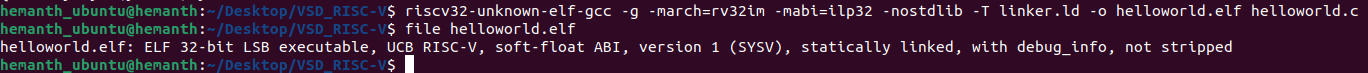
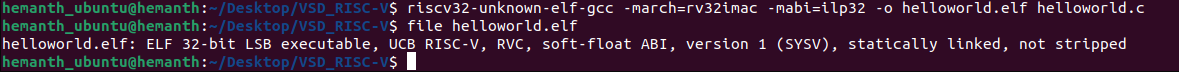
Updated ReadMe

diff --git a/Week 1/README_Week1.md b/Week 1/README_Week1.md
@@ -64,111 +64,20 @@ Compile a simple "Hello, RISC-V" program using the cross-compiler.
 gedit helloworld.c
 ```
 ```c
-volatile int *UART0 = (int *)0x10000000;
+#include <stdio.h>
 
-void _start() {
-
-    const char *msg = "Hello World";
-
-    while (*msg) {
-
-        *UART0 = *msg++;
-
-    }
-
-    while (1); // Halt
-
+int main() {
+    printf("Hello, World!\n");
+    return 0;
 }
 
 ```
 Save and close the .c file.
-### Why this .c file and not a general .c file with printf() statements?
-- This is a bare metal code that directly writes characters to the memory-mapped UART (at address 0x10000000)
-- Uses _start() as the entry point, not main()
-- Does not use any standard C libraries
-- Runs on hardware (or emulated hardware like QEMU) without an operating system
-- However printf version: Needs a richer runtime, not suitable for truly bare-metal
-
-
-
 ![Create](<./Output Screenshots/Creating Helloworld.c.png>)
-
-### Creating a linker script with .ld file type
-
-```bash
-ENTRY(_start)
-
-MEMORY
-
-{
-  // This separates ROM (code/rodata) from RAM (data/bss), and avoids placing them all in one RWX segment.
-  ROM (rx)  : ORIGIN = 0x80000000, LENGTH = 512K
-
-  RAM (rwx) : ORIGIN = 0x80080000, LENGTH = 512K
-
-} 
-SECTIONS
-
-{
-
-  .text : {
-
-    *(.text)
-
-    *(.text*)
-
-  } > ROM
-
-  .rodata : {
-
-    *(.rodata)
-
-    *(.rodata*)
-
-  } > ROM
-
-  .data : {
-
-    *(.data)
-
-    *(.data*)
-
-  } > RAM AT > ROM
-
-  .bss : {
-
-    *(.bss)
-
-    *(.bss*)
-
-    *(COMMON)
-
-  } > RAM
-
-  /DISCARD/ : {
-
-    *(.comment)
-
-    *(.note*)
-
-  }
-
-}
-```
-A linker script (.ld file) is a plain-text configuration file used by the linker (ld) to control how your program's code and data are laid out in memory.
-
-Why Do We Need It?
-In embedded systems (like RISC-V development), we don't have an operating system to manage memory. So we must tell the linker:
-- Where the code (like _start, main) should go
-- Where to place data, bss, and stack
-- How to organize segments in Flash (ROM) and RAM
-Without this, the program won't know where to load and run from.
-
-
 
 ## Compilation Command
 ```bash
-riscv32-unknown-elf-gcc -march=rv32imc -mabi=ilp32 -nostartfiles -nostdlib -g -O0 -T linker.ld helloworld.c -o helloworld.elf
+riscv32-unknown-elf-gcc -march=rv32imac -mabi=ilp32 -o helloworld.elf helloworld.c
 ```
 
 ### Explanation of Flags
@@ -177,11 +86,6 @@ riscv32-unknown-elf-gcc -march=rv32imc -mabi=ilp32 -nostartfiles -nostdlib -g -O
 | `riscv32-unknown-elf-gcc` | RISC-V GCC compiler for 32-bit bare-metal targets (no OS)     |
 | `-march=rv32imc`          | Target **RISC-V 32-bit** architecture with **IMC extensions** |
 | `-mabi=ilp32`             | Use **ILP32** ABI (int, long, pointer = 32 bits)              |
-| `-nostartfiles`           | Do **not link** standard startup files (like `crt0.o`)        |
-| `-nostdlib`               | Do **not link** standard libraries (`libc`, `libm`, etc.)     |
-| `-g`                      | Include **debug symbols** for GDB debugging                   |
-| `-O0`                     | Disable optimizations (**easier debugging**)                  |
-| `-T linker.ld`            | Use custom **linker script** for memory layout                |
 | `helloworld.c`            | Your **C source file**                                        |
 | `-o helloworld.elf`       | Name of the output **ELF executable**                         |
 
@@ -195,7 +99,7 @@ The output confirms:
 - It’s for the RISC-V architecture
 - Uses the compressed instructions (RVC)
 - Uses soft-float ABI(Application Binary Interface) (floating point handled in software)
-- It’s statically linked with debug info
+- It’s statically linked
 
 ![Compile Output](<./Output Screenshots/Compiling Helloworld.c.png>)
 
@@ -207,7 +111,7 @@ Generate the RISC-V assembly (`.s`) file from the C source and understand the pr
 
 ## Command Used
 ```bash
-riscv32-unknown-elf-gcc -march=rv32imc -mabi=ilp32 -S helloworld.c
+riscv32-unknown-elf-gcc -S -O0 helloworld.c
 ```
 
 This creates `hello.s` containing the assembly code in the same directory.
@@ -215,37 +119,37 @@ This creates `hello.s` containing the assembly code in the same directory.
 
 ## Contents of .s file
 ```bash
-  .file	"helloworld.c"
-  .option nopic
-  .attribute arch, "rv32i2p1_m2p0_a2p1_c2p0"
-  .attribute unaligned_access, 0
-  .attribute stack_align, 16
-  .text
-  .section	.rodata
-  .align	2
+  	.file	"helloworld.c"
+	.option nopic
+	.attribute arch, "rv32i2p1_m2p0_a2p1_c2p0"
+	.attribute unaligned_access, 0
+	.attribute stack_align, 16
+	.text
+	.section	.rodata
+	.align	2
 .LC0:
-  .string	"Hello World"
-  .text
-  .align	1
-  .globl	main
-  .type	main, @function
+	.string	"Hello, World!"
+	.text
+	.align	1
+	.globl	main
+	.type	main, @function
 main:
-  addi	sp,sp,-16
-  sw	ra,12(sp)
-  sw	s0,8(sp)
-  addi	s0,sp,16
-    lui	a5,%hi(.LC0)
-  addi	a0,a5,%lo(.LC0)
-  call	printf
-  li	a5,0
-  mv	a0,a5
-  lw	ra,12(sp)
-  lw	s0,8(sp)
-  addi	sp,sp,16
-  jr	ra
-  .size	main, .-main
-  .ident	"GCC: (g04696df096) 14.2.0"
-  .section	.note.GNU-stack,"",@progbits
+	addi	sp,sp,-16
+	sw	ra,12(sp)
+	sw	s0,8(sp)
+	addi	s0,sp,16
+	lui	a5,%hi(.LC0)
+	addi	a0,a5,%lo(.LC0)
+	call	puts
+	li	a5,0
+	mv	a0,a5
+	lw	ra,12(sp)
+	lw	s0,8(sp)
+	addi	sp,sp,16
+	jr	ra
+	.size	main, .-main
+	.ident	"GCC: (g04696df096) 14.2.0"
+	.section	.note.GNU-stack,"",@progbits
 ```
 
 ### What is the prologue and Epilogue?
